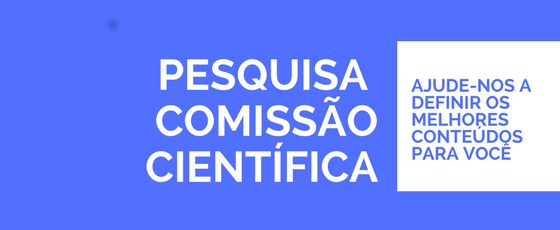
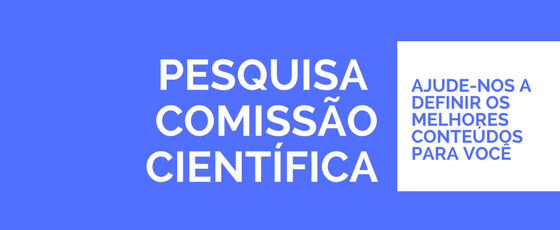
backup de duas postagens

diff --git a/database/seeds/PostsTableSeeder.php b/database/seeds/PostsTableSeeder.php
@@ -390,7 +390,29 @@ Informações sobre data e local serão divulgados posteriormente.</p>
 
     ],
     [
-    "id"        => 13,
+        "id"        => 13,
+        "titulo"    => "PESQUISA COMISSÃO CIENTÍFICA",
+        "subtitulo"     => " ",
+        "id_user"       => 304,
+        "previa" => "Tema: MUSICOTERAPIA SOCIAL, CLÍNICA E PESQUISA",
+        "id_destino" => 1,
+        "imagem_previa" => "previa13.png",
+        "id_tag"        => 1,
+    
+        'body' => 
+        '<p class="lead"> </p><p>Queremos saber sua opinião sobre os encontros da Comissão Científica e sobre os principais conteúdos a serem discutidos e trabalhados em nossos encontros mensais, por isso preparamos uma pesquisa rápida para que você possa participar mais ativamente da construção desses encontros.</p>
+        
+        <p>A pesquisa é anônima e os resultados serão divulgados no próximo fórum da APEMESP em abril. Clique no link a seguir para responde-la: <a class="vglnk" href="https://goo.gl/forms/0h5r8b8z0OmfEDqS2" rel="nofollow"><span>https</span><span>://</span><span>goo</span><span>.</span><span>gl</span><span>/</span><span>forms</span><span>/</span><span>0h5r8b8z0OmfEDqS2</span></a></p>
+        
+        <p>Ajude-nos a construir e disponibilizar os melhores conteúdos para você.</p>
+         <p></p>',
+         'created_at' => '2018-02-28 17:17:33',
+         'updated_at' => '2018-02-28 17:17:33',     
+            
+    ],
+
+    [
+    "id"        => 14,
     "titulo"    => "CHAMADA DE TRABALHOS - FÓRUM PAULISTA 2018",
     "subtitulo"     => " ",
     "id_user"       => 304,
@@ -421,9 +443,9 @@ Informações sobre data e local serão divulgados posteriormente.</p>
 	<p>3) O pôster passará por avaliação e aprovação na Comissão Científica APEMESP com base nos critérios listados para o conteúdo, não sendo aceito caso o conteúdo esteja fora da temática do encontro e do formato padrão acima descrito.</p>
 
     <p>Comissão Científica / APEMESP - 2018</p>',
-    'created_at' => '2018-02-20 17:17:33',
-    'updated_at' => '2018-02-20 17:17:33',
-],
+    'created_at' => '2018-02-29 14:17:33',
+    'updated_at' => '2018-02-29 14:17:33',
+],	
 
         ]);
 
@@ -490,17 +512,22 @@ Informações sobre data e local serão divulgados posteriormente.</p>
             ],
             [
                 "id"        => 11,
-                "total_visitas"    => 0,
+                "total_visitas"    => 5,
 
             ],
             [
                 "id"        => 12,
-                "total_visitas"    => 0,
+                "total_visitas"    => 6,
 
             ],
             [
                 "id"        => 13,
-                "total_visitas"    => 0,
+                "total_visitas"    => 7,
+
+            ],
+            [
+                "id"        => 14,
+                "total_visitas"    => 8,
 
             ],
 
